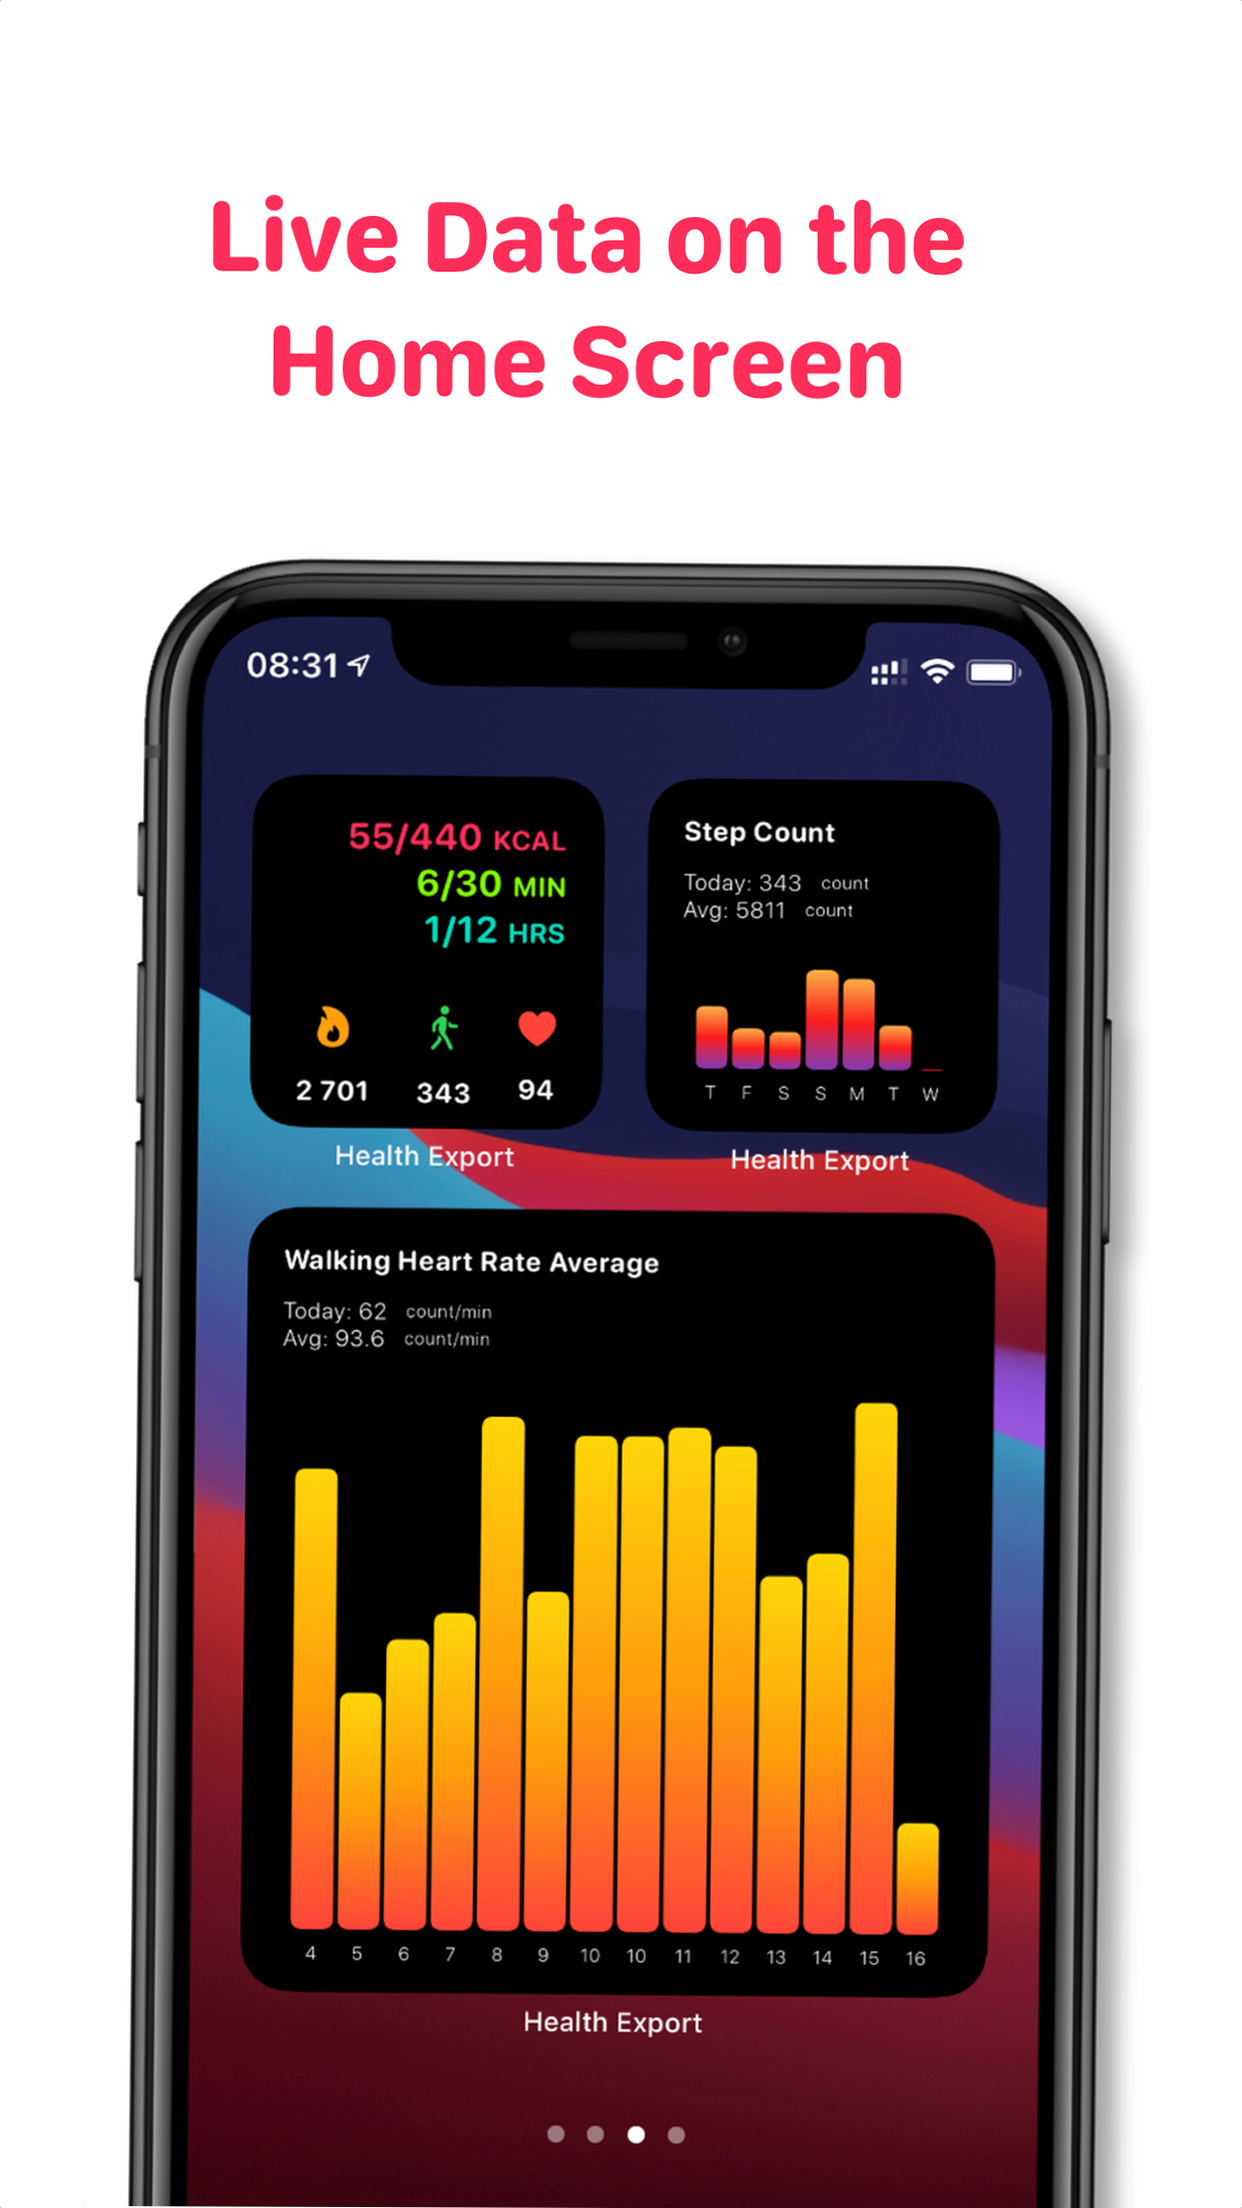
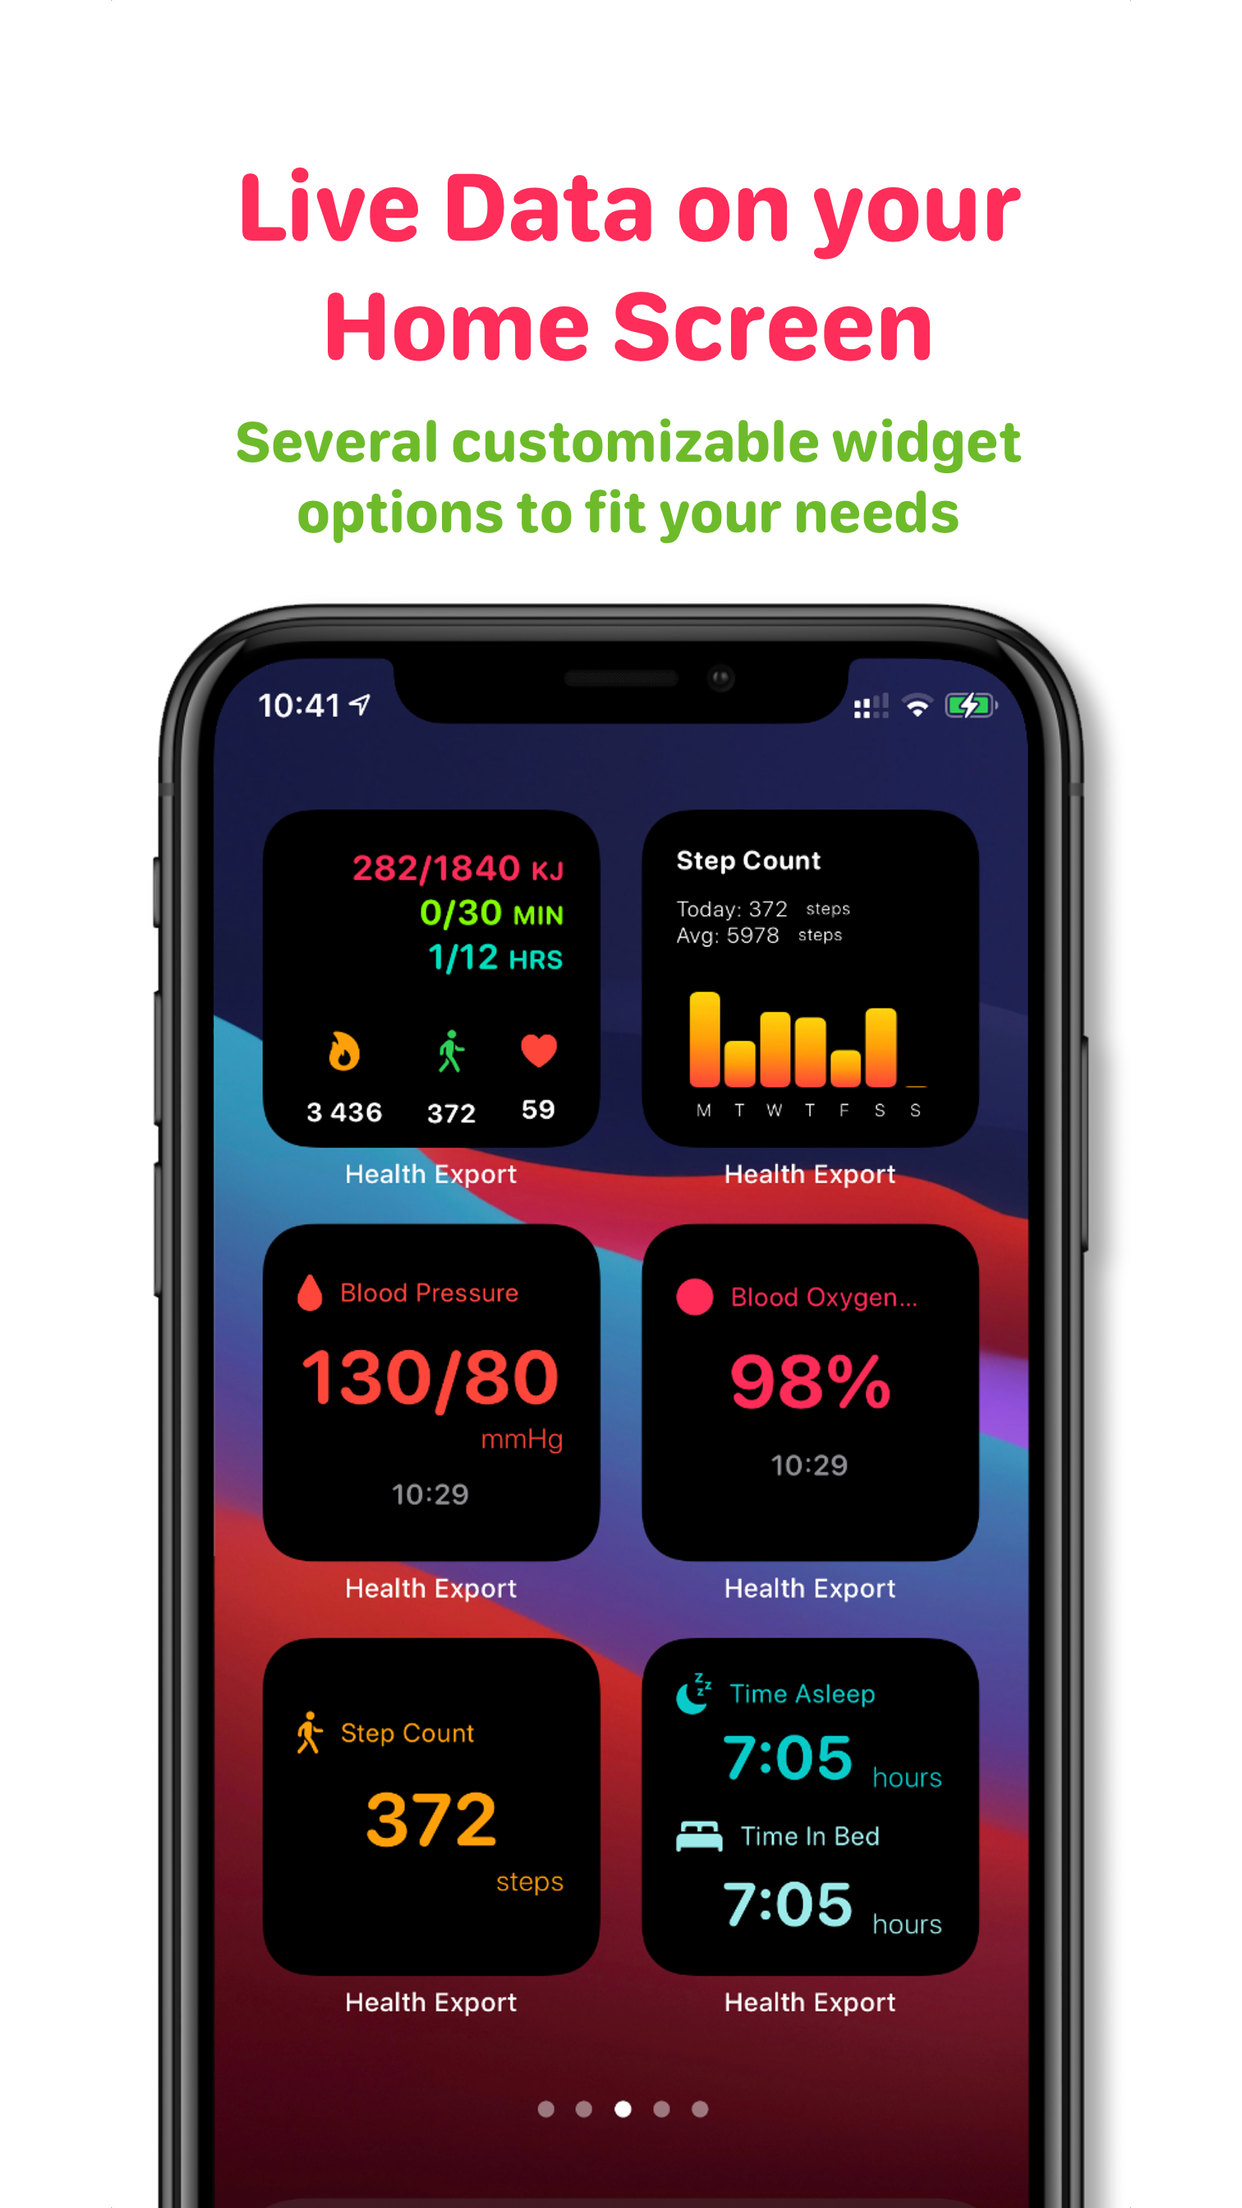
Update Screenshot; add new widget option (#6)

diff --git a/README.md b/README.md
@@ -86,8 +86,9 @@ You can include multiple copies of a single widget, at the same or different siz
   - **Total Volume** - View total volume lifted compared against 7-day or 30-day time periods. ([Preview](https://twitter.com/workoutwithbolt/status/1306059178662703105/photo/1)) `Small`
   - **Daily Workouts** - See your daily workouts to get started with just a tap. ([Preview](https://twitter.com/workoutwithbolt/status/1306059178662703105/photo/1)) `Medium` `Large`
 - **[Health Auto Export to CSV](https://apps.apple.com/se/app/healthstats-export-to-csv/id1115567069)** `$1.99`
-  - **Activity** - Near real-time Activity progress, Total Energy Burn, Step Count and Heart Rate. ([Preview](Screenshots/Health Export/widgets.png)) `Small`
-  - **Statistics** - Customize with any of over 80 Apple Health metrics; select up to 6 on the largest widget. ([Preview](Screenshots/Health Export/widgets.png)) `Small` `Medium` `Large`
+  - **Activity** - Near real-time Activity progress, Total Energy Burn, Step Count and Heart Rate. ([Preview](Screenshots/Health_Export/widgets.png)) `Small`
+  - **Recent** - Configurable widget that shows your readings for cumulative metrics or most recent reading for sample metrics. ([Preview](Screenshots/Health_Export/widgets.png)) `Small`
+  - **Statistics** - Customize with any of over 80 Apple Health metrics; select up to 6 on the largest widget. ([Preview](Screenshots/Health_Export/widgets.png)) `Small` `Medium` `Large`
 - **[Pocket Yoga](https://apps.apple.com/us/app/pocket-yoga/id347400507?mt=8)** - See a yoga pose of the day. ([Preview](https://twitter.com/pocketyogaapp/status/1306397873634902016)) `$2.99` `Medium`
 - **[Tangerine: Self-care & Goals](https://apps.apple.com/us/app/tangerine-self-care-goals/id1468882685)** `Free w/ $4.99/mo subscription`
   - **Indicator** - An elegant and small indicator with your progress for the day. ([Preview](https://twitter.com/TangerineHabit/status/1306303858159869954)) `Small`
